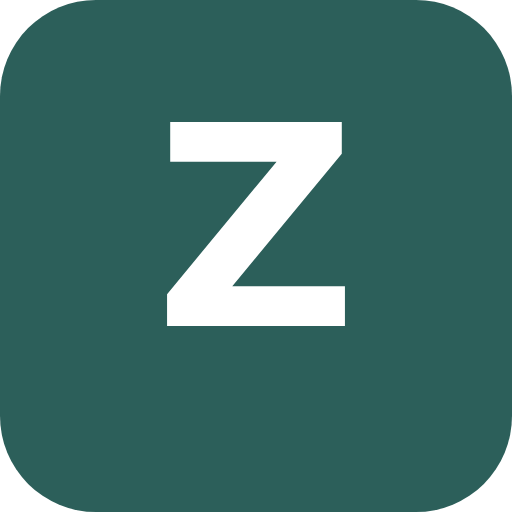
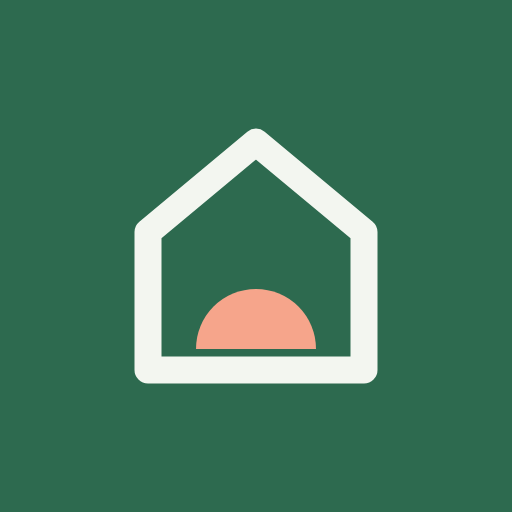
hecaso-Markenzeichen: Zimmerakte-Branding durch feste Produktmarke ersetzt
Browser-Titel, Favicon, PWA-Manifest, Login-/Passwort-Reset-Seite sowie
Sidebar-/Topbar-Logo zeigen jetzt "hecaso" statt "Zimmerakte" -- Haus-Umriss
+ Koralle-Sonnenbogen als neue MarkenZeichen.tsx-Komponente, mit den
unveraenderten SVG-Pfaddaten aus der Markenvorgabe. Die PNG/SVG-Dateien in
public/ sind daraus per Playwright/Chromium exakt nach Vorgabe gerendert
(App-Icons randlos ohne eigene Rundung fuer iOS/Android, Favicons mit
eigener Rundung + dickerem Strich fuer Groessen <=128px).

Bewusst zwei Abgrenzungen (vorab per Rueckfrage mit dem Auftraggeber
geklaert, um das Mandanten-Designsystem nicht zu vermischen):
- Die mandantenindividuelle Akzentfarbe (--zv-accent-h/-c) bleibt
  unberuehrt -- die hecaso-Markenfarben (--zv-marke-haus/-sonne) sind fest
  in tokens.css hinterlegt, unabhaengig vom Traeger-Akzent.
- Figtree (@fontsource-variable/figtree, selbst ausgeliefert statt
  Google-Fonts-CDN, siehe schrift.css) erscheint ausschliesslich in der
  Wortmarke (--zv-font-marke) -- der Rest der Anwendung bleibt bei Source
  Sans 3 + IBM Plex Mono.

Geprueft: pnpm build sauber, Figtree-woff2 im PWA-Precache neben den
bestehenden Schriften. Live-Browser-Check (Playwright) gegen echten Login
(Hell/Dunkel) und eine echte eingeloggte Sitzung: Titel/Wortmarke zeigen
"hecaso" in Figtree 600, alle vier Favicon-/Touch-Icon-Links loesen auf,
Sidebar (Desktop) und mobile Topbar (420px) korrekt ohne Konsolenfehler.
[…]

diff --git a/apps/web/src/components/MarkenZeichen.tsx b/apps/web/src/components/MarkenZeichen.tsx
@@ -1,0 +1,59 @@
+import { CSSProperties } from "react";
+
+/**
+ * Das feste hecaso-Markenzeichen -- Haus-Umriss + Koralle-Sonnenbogen,
+ * Pfaddaten unveraendert aus der Markenvorgabe uebernommen. Bewusst NICHT
+ * ueber das Akzentsystem (--zv-accent-h/-c) eingefaerbt: die Markenfarbe ist
+ * Produktidentitaet und bleibt unabhaengig von der je Mandant einstellbaren
+ * Akzentfarbe -- siehe --zv-marke-haus/-sonne in tokens.css. Passt sich nur
+ * dem Hell/Dunkel-Thema an.
+ */
+const ICON_VIEWBOX = "11.5 15.5 97 101";
+const ICON_SEITENVERHAELTNIS = 101 / 97;
+
+export function MarkenIcon({ groesse = 28, style }: { groesse?: number; style?: CSSProperties }) {
+  return (
+    <svg
+      width={groesse}
+      height={groesse * ICON_SEITENVERHAELTNIS}
+      viewBox={ICON_VIEWBOX}
+      fill="none"
+      aria-hidden="true"
+      style={{ flex: "none", ...style }}
+    >
+      <path
+        d="M24 104 V58 L60 28 L96 58 V104 Z"
+        stroke="var(--zv-marke-haus)"
+        strokeWidth={9}
+        strokeLinecap="round"
+        strokeLinejoin="round"
+      />
+      <path d="M40 97 A20 20 0 0 1 80 97 Z" fill="var(--zv-marke-sonne)" />
+    </svg>
+  );
+}
+
+/** Icon + "hecaso"-Schriftzug nebeneinander -- fuer Login-Titel, Sidebar, Topbar. */
+export function MarkenZeichen({
+  iconGroesse = 28,
+  style,
+}: {
+  iconGroesse?: number;
+  style?: CSSProperties;
+}) {
+  return (
+    <span style={{ display: "inline-flex", alignItems: "center", gap: iconGroesse * 0.3, ...style }}>
+      <MarkenIcon groesse={iconGroesse} />
+      <span
+        style={{
+          fontFamily: "var(--zv-font-marke)",
+          fontWeight: 600,
+          letterSpacing: "-0.02em",
+          color: "var(--zv-marke-haus)",
+        }}
+      >
+        hecaso
+      </span>
+    </span>
+  );
+}

diff --git a/apps/web/vite.config.ts b/apps/web/vite.config.ts
@@ -23,19 +23,20 @@ export default defineConfig({
         globPatterns: ["**/*.{js,css,html,ico,png,svg,woff2}"],
       },
       manifest: {
-        name: "Zimmerakte",
-        short_name: "Zimmerakte",
+        name: "hecaso",
+        short_name: "hecaso",
         description: "Verwaltung für Betreutes Wohnen",
         lang: "de",
-        // Standard-Markenfarbe (Palette "DRK Rot", siehe PASTELL_PALETTEN in
-        // packages/shared). Diese beiden Werte sind zwangslaeufig
-        // BAUZEITLICH und damit NICHT mandantenindividuell: das Manifest
-        // wird einmal gebaut und von allen Traegern geteilt. Der
-        // Startbildschirm und der Splash zeigen deshalb fuer alle dieselbe
-        // Farbe -- eingefaerbt ist erst die laufende Anwendung. Als bewusste
+        // Feste hecaso-Markenfarben (Tannengruen/Nebel, siehe
+        // --zv-marke-haus/-sonne in tokens.css). Diese beiden Werte sind
+        // zwangslaeufig BAUZEITLICH und damit NICHT mandantenindividuell:
+        // das Manifest wird einmal gebaut und von allen Traegern geteilt.
+        // Der Startbildschirm und der Splash zeigen deshalb fuer alle
+        // dieselbe Farbe -- eingefaerbt ist erst die laufende Anwendung
+        // (ueber die je Mandant einstellbare Akzentfarbe). Als bewusste
         // Grenze in der README vermerkt.
-        theme_color: "#e3000f",
-        background_color: "#fbfbfc",
+        theme_color: "#2D6A4F",
+        background_color: "#F3F6F0",
         display: "standalone",
         start_url: "/",
         icons: [

diff --git a/apps/web/src/pages/Shell.tsx b/apps/web/src/pages/Shell.tsx
@@ -3,6 +3,7 @@ import type { MandantDto } from "@zimmerakte/shared";
 import { api, clearToken } from "../api/client";
 import { akzentSetzen, dunkelGrundfarbeSetzen } from "../theme/theme";
 import { ThemeToggle } from "../components/ThemeToggle";
+import { MarkenIcon } from "../components/MarkenZeichen";
 import {
   IAbmelden,
   IAnwaerter,
@@ -261,9 +262,11 @@ export function Shell({ onLoggedOut }: { onLoggedOut: () => void }) {
       >
         <div className="zv-sidebar-inner">
           <div className="zv-sidebar-brand">
-            <span className="zv-brand-mark">ZA</span>
+            <span className="zv-brand-mark">
+              <MarkenIcon groesse={24} />
+            </span>
             <div className="zv-brand-text">
-              <strong>Zimmerakte</strong>
+              <strong>hecaso</strong>
               {mandant && <span>{mandant.name}</span>}
             </div>
           </div>
@@ -371,7 +374,8 @@ export function Shell({ onLoggedOut }: { onLoggedOut: () => void }) {
       <div className="zv-shell-app">
         <div className="zv-topbar">
           <div className="zv-topbar-marke">
-            <strong>Zimmerakte</strong>
+            <MarkenIcon groesse={20} />
+            <strong>hecaso</strong>
             {mandant && (
               <span>
                 <ITraeger style={{ verticalAlign: "-3px", marginRight: 4 }} />

diff --git a/apps/web/src/styles/app.css b/apps/web/src/styles/app.css
@@ -209,17 +209,9 @@
 
 .zv-brand-mark {
   flex: none;
-  height: 34px;
-  padding: 0 var(--zv-space-2);
-  border-radius: var(--zv-radius-s);
-  background: var(--zv-accent);
-  color: var(--zv-accent-contrast);
   display: flex;
   align-items: center;
   justify-content: center;
-  font-weight: var(--zv-weight-semibold);
-  font-size: var(--zv-text-s);
-  letter-spacing: 0.02em;
 }
 
 .zv-brand-text {
@@ -229,10 +221,15 @@
   min-width: 0;
 }
 
+/* hecaso-Schriftzug: eigene Markenschrift/-farbe, siehe tokens.css
+   --zv-font-marke/--zv-marke-haus -- bewusst nicht --zv-weight-semibold
+   (Source Sans 3), Figtree hat ein eigenes Gewicht dafuer. */
 .zv-brand-text strong {
+  font-family: var(--zv-font-marke);
   font-size: var(--zv-text-l);
-  font-weight: var(--zv-weight-semibold);
-  letter-spacing: -0.01em;
+  font-weight: 600;
+  letter-spacing: -0.02em;
+  color: var(--zv-marke-haus);
 }
 
 .zv-brand-text span {
@@ -849,9 +846,11 @@
 }
 
 .zv-topbar strong {
+  font-family: var(--zv-font-marke);
   font-size: var(--zv-text-l);
-  font-weight: var(--zv-weight-semibold);
-  letter-spacing: -0.01em;
+  font-weight: 600;
+  letter-spacing: -0.02em;
+  color: var(--zv-marke-haus);
 }
 
 .zv-topbar span {

diff --git a/apps/web/src/styles/tokens.css b/apps/web/src/styles/tokens.css
@@ -283,6 +283,22 @@
      bleibt. */
   --zv-font-body: "Source Sans 3 Variable", system-ui, -apple-system, "Segoe UI", sans-serif;
   --zv-font-mono: "IBM Plex Mono", ui-monospace, "SFMono-Regular", Consolas, monospace;
+  /* Nur fuer die hecaso-Wortmarke (MarkenZeichen.tsx) -- bewusst nicht
+     --zv-font-body: die Markenschrift ist Produktidentitaet, nicht die
+     Arbeitsschrift der Anwendung. Siehe Kommentar in schrift.css. */
+  --zv-font-marke: "Figtree Variable", system-ui, -apple-system, "Segoe UI", sans-serif;
+
+  /*
+   * Feste hecaso-Markenfarben (Haus-Umriss + Sonnenbogen in
+   * MarkenZeichen.tsx) -- bewusst NICHT an --zv-accent-h/-c gekoppelt: die
+   * Markenfarbe ist Produktidentitaet und bleibt unabhaengig von der je
+   * Mandant einstellbaren Akzentfarbe. Passt sich nur dem Hell/Dunkel-Thema
+   * an, ueber dieselbe light-dark()-Mechanik wie der Rest des Systems.
+   * Werte aus der Markenvorgabe: Tannengruen/Nebel (Haus), Koralle/Koralle
+   * hell (Sonne) -- siehe README, "hecaso-Markenzeichen".
+   */
+  --zv-marke-haus: light-dark(#2d6a4f, #f3f6f0);
+  --zv-marke-sonne: light-dark(#e07a5f, #f6a58b);
 
   --zv-text-xs: 11.5px;
   --zv-text-s: 12.5px;

diff --git a/apps/web/src/pages/PasswortZuruecksetzen.tsx b/apps/web/src/pages/PasswortZuruecksetzen.tsx
@@ -1,6 +1,7 @@
 import { FormEvent, useState } from "react";
 import { api } from "../api/client";
 import { IBestaetigen, IErfolg, IFehler, ISichtbar, IVerborgen } from "../components/icons";
+import { MarkenZeichen } from "../components/MarkenZeichen";
 
 /**
  * Zweite Haelfte des "Leitung stoesst Reset an, sieht aber nur einen
@@ -49,7 +50,9 @@ export function PasswortZuruecksetzen({ token }: { token: string }) {
     return (
       <div className="zv-shell">
         <div className="zv-card">
-          <h1>Zimmerakte</h1>
+          <h1>
+            <MarkenZeichen iconGroesse={26} />
+          </h1>
           <p className="zv-sub">Neues Passwort gesetzt</p>
           <div className="zv-hinweis zv-hinweis-erfolg">
             <IErfolg />
@@ -66,7 +69,9 @@ export function PasswortZuruecksetzen({ token }: { token: string }) {
   return (
     <div className="zv-shell">
       <form className="zv-card" onSubmit={submit}>
-        <h1>Zimmerakte</h1>
+        <h1>
+          <MarkenZeichen iconGroesse={26} />
+        </h1>
         <p className="zv-sub">Neues Passwort festlegen</p>
 
         {fehler && (

diff --git a/apps/web/src/styles/schrift.css b/apps/web/src/styles/schrift.css
@@ -39,3 +39,21 @@
   unicode-range: U+0000-00FF, U+0131, U+0152-0153, U+02BB-02BC, U+02C6, U+02DA, U+02DC, U+0304, U+0308,
     U+0329, U+2000-206F, U+20AC, U+2122, U+2191, U+2193, U+2212, U+2215, U+FEFF, U+FFFD;
 }
+
+/*
+ * Figtree: ausschliesslich die hecaso-Wortmarke (Login-Titel,
+ * Sidebar-Markenname, siehe MarkenZeichen.tsx) -- NICHT der Fliesstext der
+ * Anwendung, der bleibt bei Source Sans 3. Gleicher Grund wie oben: selbst
+ * ausgeliefert statt Google-Fonts-CDN, deshalb @fontsource-variable/figtree
+ * statt des fonts.googleapis.com-Links aus der Markenvorgabe.
+ */
+@font-face {
+  font-family: "Figtree Variable";
+  font-style: normal;
+  font-display: swap;
+  font-weight: 400 700;
+  src: url("@fontsource-variable/figtree/files/figtree-latin-wght-normal.woff2")
+    format("woff2-variations");
+  unicode-range: U+0000-00FF, U+0131, U+0152-0153, U+02BB-02BC, U+02C6, U+02DA, U+02DC, U+0304, U+0308,
+    U+0329, U+2000-206F, U+20AC, U+2122, U+2191, U+2193, U+2212, U+2215, U+FEFF, U+FFFD;
+}

diff --git a/apps/web/src/pages/Login.tsx b/apps/web/src/pages/Login.tsx
@@ -1,5 +1,6 @@
 import { FormEvent, useState } from "react";
 import { api, setToken } from "../api/client";
+import { MarkenZeichen } from "../components/MarkenZeichen";
 import {
   IAnmelden,
   IBestaetigen,
@@ -68,7 +69,9 @@ export function Login({
     return (
       <div className="zv-shell">
         <form className="zv-card" onSubmit={submitCode}>
-          <h1>Zimmerakte</h1>
+          <h1>
+            <MarkenZeichen iconGroesse={26} />
+          </h1>
           <p className="zv-sub">Zwei-Faktor-Bestätigung</p>
 
           {fehler && (
@@ -116,7 +119,9 @@ export function Login({
   return (
     <div className="zv-shell">
       <form className="zv-card" onSubmit={submitPasswort}>
-        <h1>Zimmerakte</h1>
+        <h1>
+          <MarkenZeichen iconGroesse={26} />
+        </h1>
         <p className="zv-sub">Anmeldung</p>
 
         {fehler ? (

diff --git a/apps/web/index.html b/apps/web/index.html
@@ -3,10 +3,12 @@
   <head>
     <meta charset="UTF-8" />
     <meta name="viewport" content="width=device-width, initial-scale=1" />
-    <meta name="theme-color" content="#e3000f" />
-    <link rel="icon" href="/icon-192.png" />
-    <link rel="apple-touch-icon" href="/icon-192.png" />
-    <title>Zimmerakte</title>
+    <meta name="theme-color" content="#2D6A4F" />
+    <link rel="icon" href="/favicon.svg" type="image/svg+xml" />
+    <link rel="icon" href="/favicon-32.png" sizes="32x32" type="image/png" />
+    <link rel="icon" href="/favicon-16.png" sizes="16x16" type="image/png" />
+    <link rel="apple-touch-icon" href="/apple-touch-icon.png" />
+    <title>hecaso</title>
     <script>
       /*
        * Muss inline und synchron sein, und muss VOR dem Stylesheet stehen:

diff --git a/README.md b/README.md
@@ -2353,6 +2353,54 @@ angelegt, erscheint in der Liste mit „Keine Position" statt automatischer
 Rechte; Zimmer/Einstellungen/Kassenbuch/Standorte geladen ohne
 Konsolenfehler, Branding-Abschnitt in Einstellungen durchgängig sichtbar.
 
+### Nachtrag: hecaso-Markenzeichen
+
+Die Anwendung trägt ab jetzt die feste Produktmarke „hecaso" statt des
+bisherigen Arbeitstitels „Zimmerakte" -- Browser-Tab-Titel, Favicon,
+PWA-Manifest, Login-/Passwort-Reset-Seite, Sidebar- und Topbar-Logo. Zwei
+bewusste Abgrenzungen zum Rest der Anwendung:
+
+- **Nicht betroffen: die je Mandant einstellbare Akzentfarbe**
+  (`--zv-accent-h`/`-c`, OKLCH, siehe `theme/`). Die hecaso-Markenfarben
+  (Tannengrün `#2D6A4F`, Nebel `#F3F6F0`, Koralle `#E07A5F`/`#F6A58B` hell)
+  sind fest in `tokens.css` als `--zv-marke-haus`/`--zv-marke-sonne`
+  hinterlegt -- Produktidentität, unabhängig vom Trägerakzent. Nur das
+  Hell/Dunkel-Thema (`light-dark()`, dieselbe Mechanik wie der Rest des
+  Systems) wirkt noch darauf. Das Anmelde-Formular in den Screenshots zeigt
+  weiterhin den DRK-roten Standardakzent (`#e3000f`) -- unverändert korrekt,
+  weil dieser Mandant seine Akzentfarbe nicht selbst gesetzt hat.
+- **Nicht betroffen: die Arbeitsschrift der Anwendung.** Figtree
+  (`@fontsource-variable/figtree`, selbst ausgeliefert -- siehe
+  schrift.css-Kommentar zum LG-München-Google-Fonts-Urteil, dasselbe gilt
+  hier) erscheint ausschließlich in der hecaso-Wortmarke
+  (`components/MarkenZeichen.tsx`, neue CSS-Variable `--zv-font-marke`).
+  Tabellen, Formulare und Fließtext bleiben bei Source Sans 3 + IBM Plex
+  Mono. Beide Entscheidungen explizit vom Auftraggeber bestätigt (Rückfrage
+  vor der Umsetzung), um nicht versehentlich das token-basierte
+  Mandanten-Designsystem (CLAUDE.md Regel 7) mit der Produktmarke zu
+  vermischen.
+
+Das Markenzeichen (Haus-Umriss + Koralle-Sonnenbogen) ist eine einzige
+React-Komponente (`MarkenIcon`/`MarkenZeichen`) mit den unveränderten
+SVG-Pfaddaten aus der Markenvorgabe -- kein Rasterbild im Code. Die
+PNG/SVG-Dateien in `public/` (`favicon.svg`, `favicon-16/32.png`,
+`apple-touch-icon.png`, `icon-192/512.png`, `icon-maskable-512.png`) sind
+daraus mit Playwright/Chromium exakt nach Vorgabe gerendert: App-Icon/
+PWA-Manifest-Icons als volle Kantenfläche ohne eigene Rundung (die
+übernehmen iOS/Android selbst über ihre Maske), Favicons mit eigener
+Rundung und dickerem Strich (13 statt 9 px), wie in der Vorgabe für
+Größen ≤128 px vorgesehen.
+
+Geprüft: `pnpm build` sauber (die Figtree-woff2-Datei erscheint im
+PWA-Precache neben Source Sans 3/IBM Plex Mono). Live-Browser-Check
+(Playwright) gegen echten Login (Hell- und Dunkel-Theme) und eine echte
+eingeloggte Sitzung: `document.title`/`<h1>`-Text ist „hecaso", die
+Wortmarke lädt nachweislich Figtree 600 in der jeweils themagerechten
+Markenfarbe, alle vier Favicon-/Touch-Icon-Links lösen auf die neuen
+Dateien auf, Sidebar (Desktop) und Topbar (Mobil, 420 px) zeigen Icon +
+Schriftzug ohne Konsolenfehler. API-Suite danach erneut vollständig grün
+(dieser Nachtrag ändert ausschließlich `apps/web/`).
+
 ## Lokale Entwicklung
 
 Voraussetzungen: Node ≥ 20, pnpm, eine PostgreSQL-16-Instanz (per Docker
